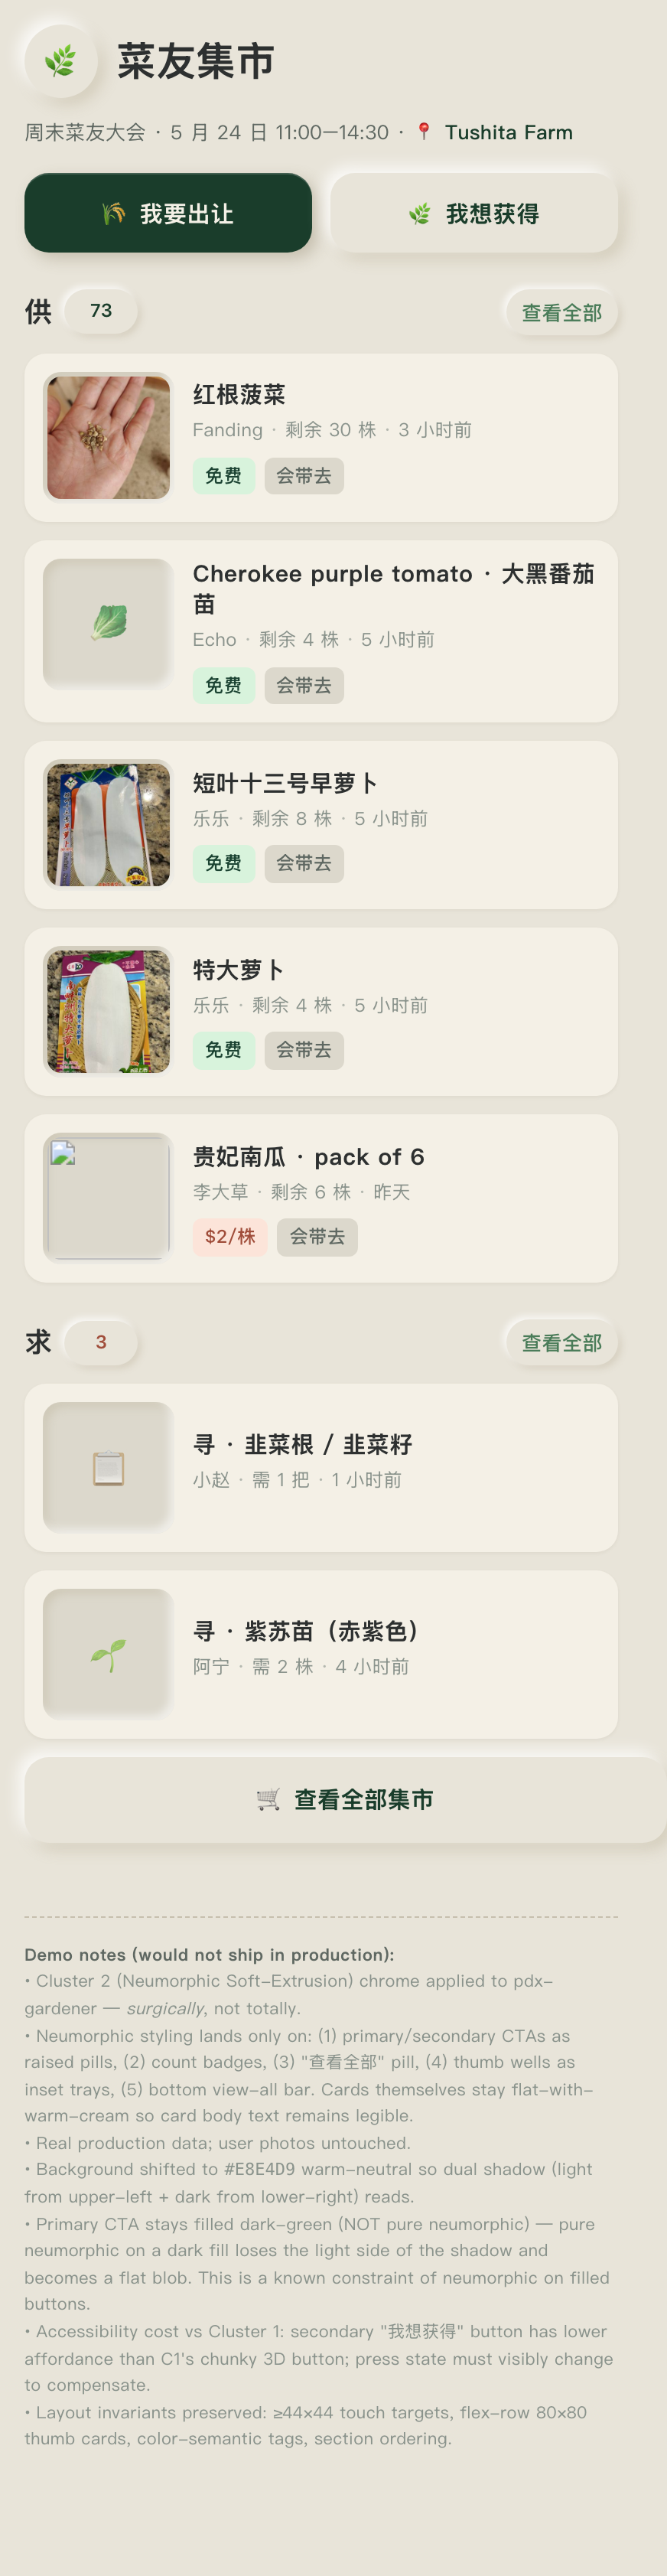
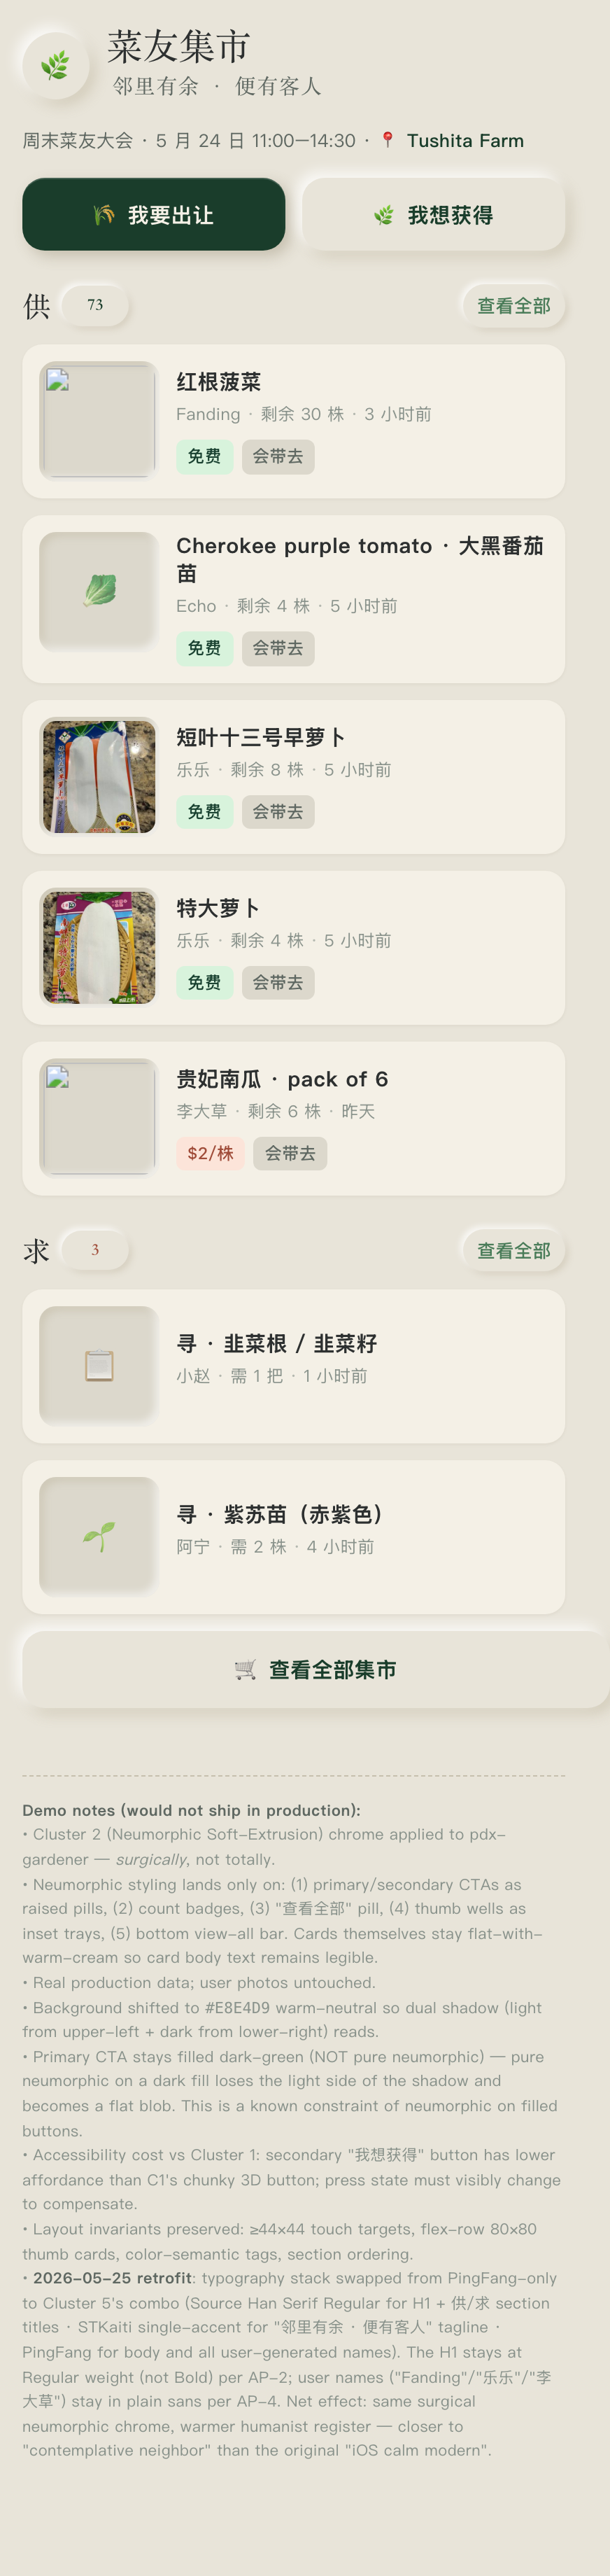
validation: retrofit C2 home with C5 font stack
User confirmed 2026-05-25 ('好') to apply the same font swap to the
home page (after-c2.html) that was used on the 4 multi-page applies
(login / item-detail / post-offer / profile).

Changes (small, focused diff):
  - Added --font-display (Source Han Serif SC) / --font-script (STKaiti)
    / --font-body (PingFang) tokens to :root
  - .hero-title: font-family swap to serif + weight 700 → 400 (AP-2)
  - New .hero-tagline class for STKaiti single-accent line
  - .section-title: font-family swap to serif + weight 700 → 500 (Medium
    gives sectional rhythm vs hero Regular)
  - Added tagline '邻里有余 · 便有客人' below H1 (parallel structure
    to login/detail/form/profile)

What did NOT change:
  - Card names, body, all user names (Fanding/Echo/乐乐/李大草/小赵/
    阿宁) stay PingFang sans — AP-4 respected
  - Surgical neumorphic vocabulary (CTAs, count badges, thumb-wells,
    view-all) unchanged
  - All layout/UX invariants unchanged
  - Real production data, real photo URLs unchanged

findings.md updated: removed the 'did NOT retrofit' note, added a
'Home retrofit (2026-05-25)' section documenting the before/after
register shift ('Apple Health for plants' → 'contemplative neighbor').

diff --git a/validation/pdx-apply-c2/after-c2.html b/validation/pdx-apply-c2/after-c2.html
@@ -57,11 +57,20 @@
 
   --sp-1:4px; --sp-2:8px; --sp-3:12px; --sp-4:16px; --sp-5:24px;
 
-  --font-zh: "PingFang SC", "Source Han Sans SC", -apple-system, sans-serif;
+  /* Cluster 5 typography stack (user-preferred 2026-05-23, retrofitted
+     to home 2026-05-25 for consistency with pages/*.html). Discipline:
+       - --font-display at Regular weight only (NOT Bold — AP-2 trap)
+       - --font-script for single accent moments only
+       - --font-body for body + user names (AP-4) */
+  --font-display: "Source Han Serif SC", "Noto Serif SC", "Songti SC",
+                  Georgia, ui-serif, serif;
+  --font-script:  "STKaiti", "KaiTi", "楷体", "Source Han Serif SC", serif;
+  --font-body:    "PingFang SC", "Source Han Sans SC", "Noto Sans SC",
+                  -apple-system, sans-serif;
 }
 
 html, body {
-  font-family: var(--font-zh);
+  font-family: var(--font-body);
   background: var(--bg-page);
   color: var(--text);
   font-size: var(--fs-sm);
@@ -99,12 +108,21 @@ html, body {
   font-size: 22px;
 }
 .hero-title {
+  font-family: var(--font-display);
   font-size: var(--fs-display);
-  font-weight: 700;
-  letter-spacing: -0.01em;
-  line-height: 1.15;
+  font-weight: 400;   /* Regular — NOT bold (AP-2: serif Chinese Bold reads as 古籍 heritage) */
+  letter-spacing: -0.005em;
+  line-height: 1.2;
   margin: 0;
   color: var(--text);
+}
+.hero-tagline {
+  font-family: var(--font-script);
+  color: var(--text-secondary);
+  font-size: var(--fs-md);
+  letter-spacing: 0.05em;
+  margin: 2px 0 6px;
+  padding-left: 4px;
 }
 .hero-sub {
   font-size: var(--fs-sm);
@@ -172,8 +190,9 @@ html, body {
   display: flex;
   align-items: center;
   gap: var(--sp-2);
-  font-size: var(--fs-lg);
-  font-weight: 700;
+  font-family: var(--font-display);
+  font-size: 20px;
+  font-weight: 500;   /* Medium — gives sectional rhythm vs hero Regular */
   color: var(--text);
   margin: 0;
 }
@@ -313,7 +332,10 @@ html, body {
 
   <div class="hero">
     <div class="brand-mark">🌿</div>
-    <h1 class="hero-title">菜友集市</h1>
+    <div>
+      <h1 class="hero-title">菜友集市</h1>
+      <div class="hero-tagline">邻里有余 · 便有客人</div>
+    </div>
   </div>
   <p class="hero-sub">
     周末菜友大会 · 5 月 24 日 11:00–14:30 · 📍 <a class="pin">Tushita Farm</a>
@@ -407,7 +429,8 @@ html, body {
     • Background shifted to <code>#E8E4D9</code> warm-neutral so dual shadow (light from upper-left + dark from lower-right) reads.<br>
     • Primary CTA stays filled dark-green (NOT pure neumorphic) — pure neumorphic on a dark fill loses the light side of the shadow and becomes a flat blob. This is a known constraint of neumorphic on filled buttons.<br>
     • Accessibility cost vs Cluster 1: secondary "我想获得" button has lower affordance than C1's chunky 3D button; press state must visibly change to compensate.<br>
-    • Layout invariants preserved: ≥44×44 touch targets, flex-row 80×80 thumb cards, color-semantic tags, section ordering.
+    • Layout invariants preserved: ≥44×44 touch targets, flex-row 80×80 thumb cards, color-semantic tags, section ordering.<br>
+    • <strong>2026-05-25 retrofit</strong>: typography stack swapped from PingFang-only to Cluster 5's combo (Source Han Serif Regular for H1 + 供/求 section titles · STKaiti single-accent for "邻里有余 · 便有客人" tagline · PingFang for body and all user-generated names). The H1 stays at Regular weight (not Bold) per AP-2; user names ("Fanding"/"乐乐"/"李大草") stay in plain sans per AP-4. Net effect: same surgical neumorphic chrome, warmer humanist register — closer to "contemplative neighbor" than the original "iOS calm modern".
   </div>
 
 </div>

diff --git a/validation/pdx-apply-c2/findings.md b/validation/pdx-apply-c2/findings.md
@@ -106,9 +106,25 @@ warmer than the original C2 home page.**
 4. **All page H1s in Source Han Serif Regular**, not Bold. The
    restraint preserves the contemplative-not-古籍 register.
 
-### What was deliberately not done
+### Home retrofit (2026-05-25)
 
-- **Did NOT retrofit the home page (`after-c2.html`)** with C5 fonts.
-  Kept the original (PingFang-only) so the comparison "what does the
-  font swap actually change?" is visible across the same chrome.
-  If user prefers, this is a one-edit follow-up.
+`after-c2.html` was subsequently retrofitted to use the same C5 font
+stack so the 5 pages now share consistent typography. Diff was small:
+~30 inserted lines (font tokens + a hero tagline class + serif
+font-family on H1 and section titles), nothing else changed. The
+comparison "what did the font swap change?" is documented here:
+
+**Before (PingFang-only)**: read as "Apple Health for plants" — clean,
+calm, slightly clinical. The neumorphic depth controls dominated the
+emotional register.
+
+**After (C5 stack — Source Han Serif Regular H1 + STKaiti tagline
+'邻里有余 · 便有客人' + PingFang body)**: same surgical neumorphic
+chrome, but humanist typography anchors the page. Register shifts
+from "iOS calm modern" to "contemplative neighbor". User names stay
+PingFang sans (AP-4 respected). H1 stays Regular weight (AP-2
+respected). Section titles 供/求 picked up serif Medium for sectional
+rhythm vs the hero Regular.
+
+Net effect: warmer than the original C2 home without losing any of
+the neumorphic clarity. The font swap was the right call.